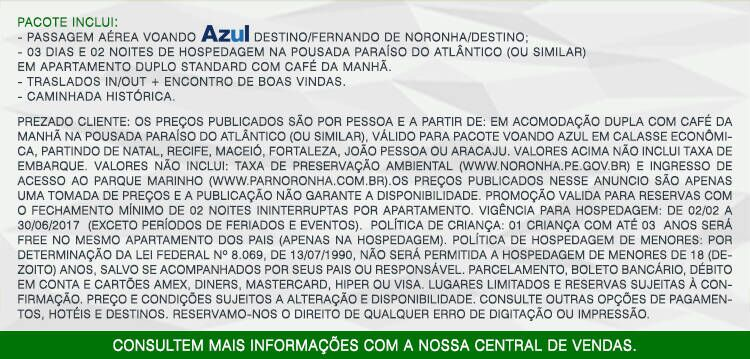
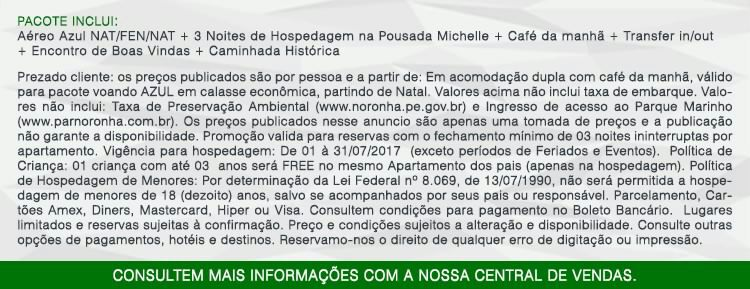
Altera viagem Noronha

diff --git a/fernando-de-noronha.html b/fernando-de-noronha.html
@@ -136,18 +136,22 @@
                </p>
                <h3>pacote inclui:</h3>
                <p>Passagem aérea<br>
-               2 noites de hospedagem<br>
+               3 noites de hospedagem<br>
                café da manhã<br>
                translado<br>
                Caminhada Histórica<br>
+               Encontro de boas vindas<br>
               Para mais informações leia a imagem em anexo ou entre em contato conosco</p>
 
                <hr>
                <h1 class="tit">Pagamento</h1>
                <hr>
-               <h3>em aé 10x a partir de:</h3>
-               <h2 style="color: rgb(30, 60, 108)">R$ 1.337,00</h2>
-               <h6>Valor do pacote por pessoa, com saídas de Natal. Valores serão acrecidos de taxas</h6>
+               <h3>6x de:</h3>
+               <h2 style="color: rgb(30, 60, 108)">R$ 263,00</h2>
+               <h6>Valor do pacote por pessoa R$ 1.578,00.</h6>
+               <h3>À vista</h3>
+               <h2 style="color: rgb(30, 60, 108)">R$ 1.492,00</h2>
+               <h6>Valor do pacote por pessoa.</h6>
                <h6>Formas de pagamento:<br>Cartão<br>Cheque<br>Boleto Bancário</h6> <!-- A CADA FORMA, UM <br> --></h6> 
                <hr>
               
